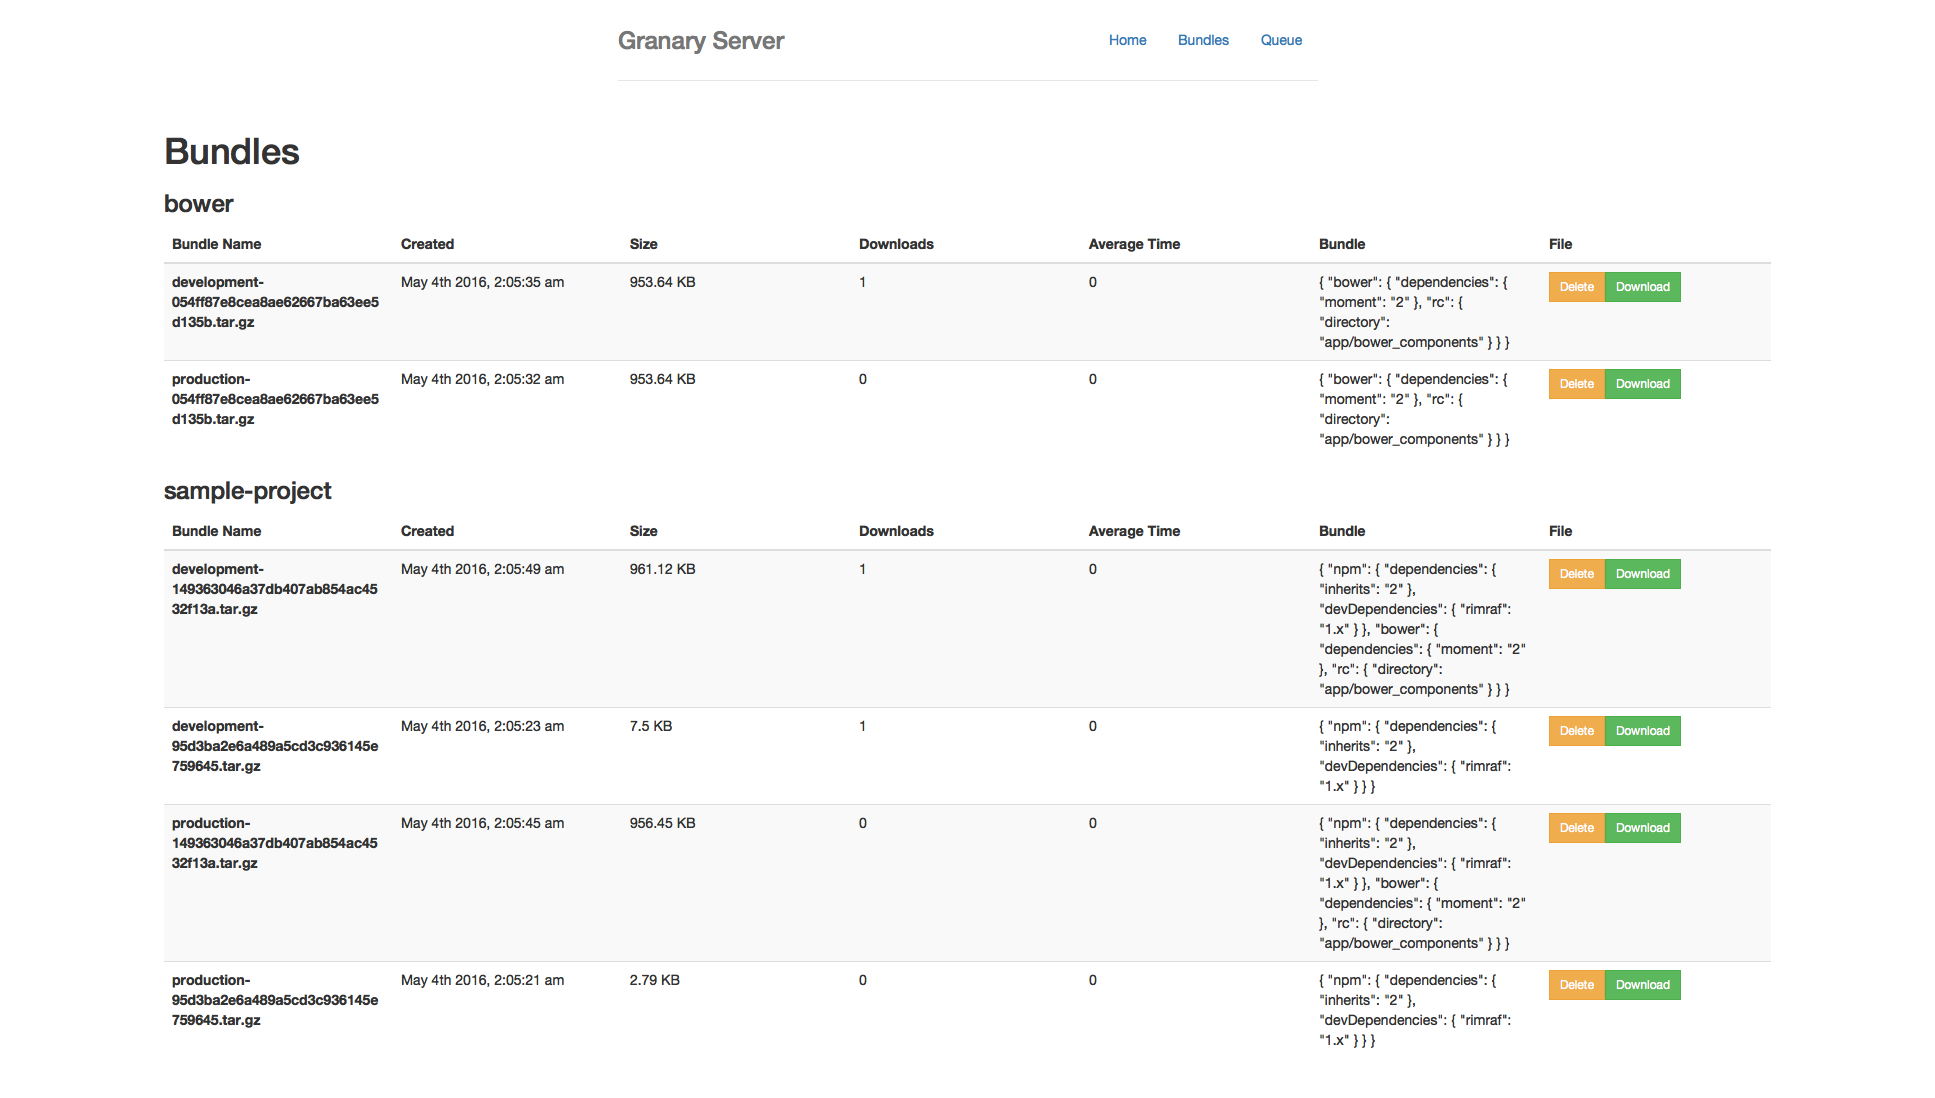
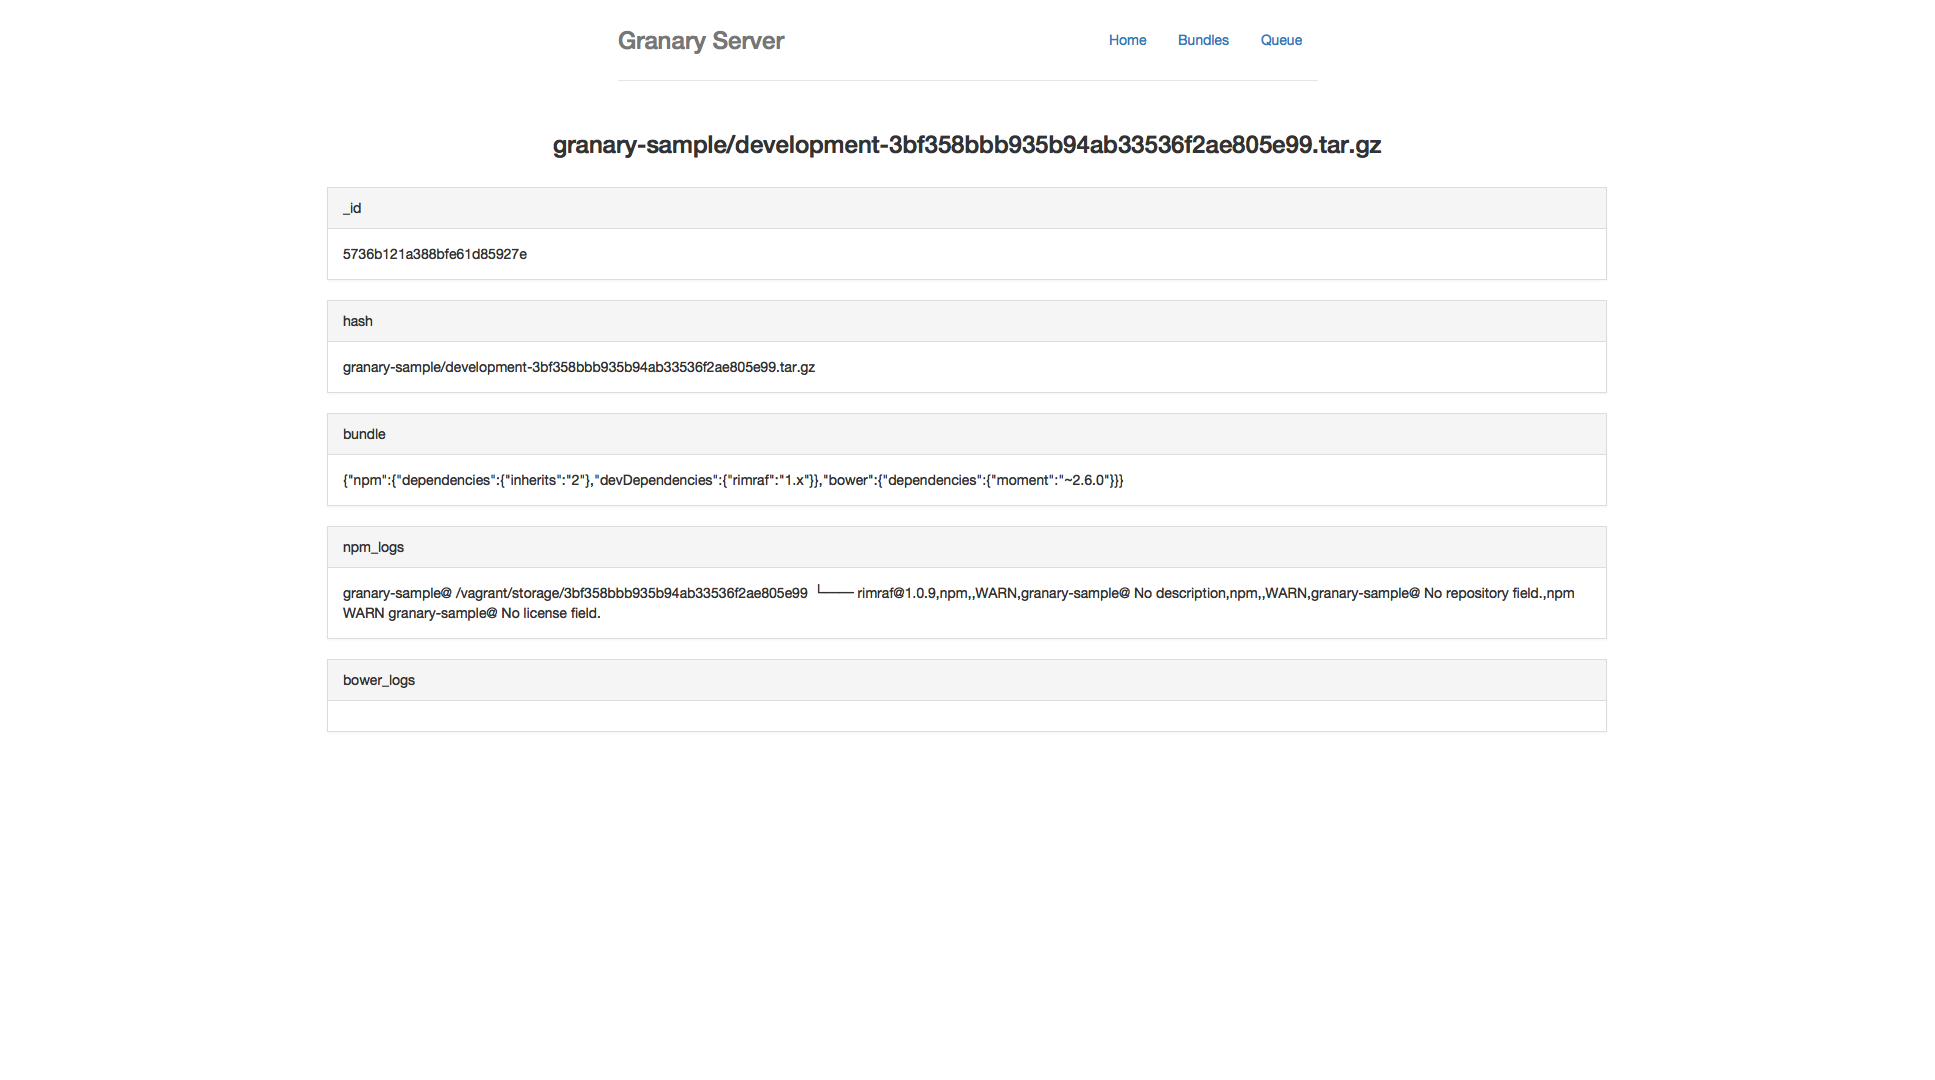
adds npm and bower logs adds more screenshot adds bundle page to show bundle info

diff --git a/lib/project.js b/lib/project.js
@@ -4,20 +4,24 @@ var fs = require('fs');
 var mkdirp = require('mkdirp');
 var Promise = require('bluebird');
 var mongoose = require('mongoose');
+var conf = require('../config/config')();
 
 var ProjectSchema = mongoose.Schema({
     hash: String,
     download_count: Number,
     download_time: Number,
     time: Date,
-    bundle: Object
+    bundle: Object,
+    bower_logs: Array,
+    npm_logs: Array
 });
 
 var Project = mongoose.model('Project', ProjectSchema);
 
 mongoose.connect('mongodb://localhost/granary-server');
 
-module.exports = function(log, conf) {
+module.exports = function(log) {
+    var self = {};
     return self = {
         get: function(hash) {
             return new Promise(function(resolve, reject) {
@@ -30,9 +34,9 @@ module.exports = function(log, conf) {
                     if (project) {
                         resolve(project);
                     } else {
-                        var project = new Project({
+                        project = new Project({
                             hash: hash
-                        }).save(function(err) {
+                        }).save(function() {
                             resolve(project);
                         });
                     }
@@ -67,10 +71,11 @@ module.exports = function(log, conf) {
             project.storageDir = conf.get('storage');
             // path where tar.gz will be saved
             project.path = path.join(project.storageDir, project.name);
-            project.developmentBundle = 'development-' + project.hash + '.tar.gz';
-            project.productionBundle = 'production-' + project.hash + '.tar.gz'
 
-            self.get(path.join(project.name, project.developmentBundle)).then(function(_project) {
+            project.developmentBundle = path.join(project.name, 'development-' + project.hash + '.tar.gz');
+            project.productionBundle = path.join(project.name, 'production-' + project.hash + '.tar.gz');
+
+            self.get(project.developmentBundle).then(function(_project) {
                 _project.bundle = JSON.stringify({
                     npm: project.npm || {},
                     bower: project.bower || {}
@@ -78,7 +83,7 @@ module.exports = function(log, conf) {
                 _project.save();
             });
 
-            self.get(path.join(project.name, project.productionBundle)).then(function(_project) {
+            self.get(project.productionBundle).then(function(_project) {
                 _project.bundle = JSON.stringify({
                     npm: project.npm || {},
                     bower: project.bower || {}
@@ -86,15 +91,15 @@ module.exports = function(log, conf) {
                 _project.save();
             });
 
-            project.bundlePath = path.join(project.path, project.developmentBundle);
-            project.productionBundlePath = path.join(project.path, project.productionBundle);
+            project.bundlePath = path.join(project.path, 'development-' + project.hash + '.tar.gz');
+            project.productionBundlePath = path.join(project.path, 'production-' + project.hash + '.tar.gz');
             project.downloadPath = path.join(project.name, 'development-' + project.hash + '.tar.gz');
             // temp storage directory where things install to
             project.tempPath = path.join(project.storageDir, project.hash);
             return project;
         },
-        getStats: function(hash, callback) {
-            return new Promise(function(resolve, reject) {
+        getStats: function(hash) {
+            return new Promise(function(resolve) {
                 self.get(hash).then(function(project) {
                     resolve({
                         downloads: project.download_count || 0,
@@ -138,7 +143,7 @@ module.exports = function(log, conf) {
                     var hash = path.join(name, bundle);
                     self.get(hash).then(function(project) {
                         project.download_count = project.download_count ? project.download_count += 1 : 1;
-                        project.save(function(err) {
+                        project.save(function() {
                             return res.sendFile(file);
                         });
                     });

diff --git a/routes/index.js b/routes/index.js
@@ -1,13 +1,15 @@
 var marked = require('marked');
 var kue = require('kue');
+var path = require('path');
+var fs = require('fs');
 var responseTime = require('response-time');
 var bodyParser = require('body-parser');
 
 module.exports = function(app, log, conf) {
     var Auth = require('../lib/auth')(log, conf);
-    var Project = require('../controllers/project')(log, conf);
-    var Granary = require('../controllers/granary')(log, conf);
-    var UI = require('../controllers/ui')(log, conf);
+    var Project = require('../lib/project')(log, conf);
+    var Granary = require('../lib/granary')(log, conf);
+    var UI = require('../lib/ui')(log, conf);
 
     app.use(bodyParser.json({
         limit: conf.get('limit') + 'kb'
@@ -30,9 +32,7 @@ module.exports = function(app, log, conf) {
                 file = req.originalUrl.replace('/ui/download/', '');
                 Project.get(file).then(function(project) {
                     project.download_time = project.download_time ? project.download_time + time : time;
-                    project.save(function(err) {
-                        console.log(err);
-                    });
+                    project.save();
                 });
             } else if(req.route.path == '/granary/download') {
                 var project = Project.getDetails(req.body);
@@ -43,9 +43,7 @@ module.exports = function(app, log, conf) {
                 file = file.substring(file.indexOf(project.name), file.length);
                 Project.get(file).then(function(project) {
                     project.download_time = project.download_time ? project.download_time + time : time;
-                    project.save(function(err) {
-                        console.log(err);
-                    });
+                    project.save();
                 });
             }
         }
@@ -62,8 +60,25 @@ module.exports = function(app, log, conf) {
         res.render('bundles', req.data);
     });
 
+    app.get('/ui/:folder/:file', function(req, res) {
+        var folder = req.params.folder;
+        var file = req.params.file;
+        fs.exists(path.join(conf.get('storage'), folder, file), function(exists) {
+            if(exists) {
+                Project.get(path.join(folder, file)).then(function(bundle) {
+                    res.render('bundle', {bundle: bundle.toObject()});
+                });
+            } else {
+                res.render('error', {
+                  message: 'Bundle does not exist',
+                  error: {
+                      status: 404
+                  }
+                });
+            }
+        });
+    });
     app.get('/ui/download/:folder/:file', Auth.middleware, UI.download);
-    // TODO: temporary, quick way to add delete
     app.get('/ui/delete/:folder/:file', Auth.logout, Auth.middleware, UI.delete);
 
     app.use('/granaries', kue.app);

diff --git a/lib/job_processor.js b/lib/job_processor.js
@@ -14,6 +14,8 @@ module.exports = function (log) {
 
   JobProcessor.setup = function (jobs) {
 
+      var Project = require('./project')(log);
+
     // TODO: one job at a time, npm can explode? (might need to investigate sandboxing job processing)
     // TODO: can Bower and NPM install the same time? (could be done if the process was threaded, might have an issue with concurrency)
     jobs.process('install', 1, function (job, done) {
@@ -27,7 +29,9 @@ module.exports = function (log) {
           job.progress(1, steps);
           if (project.npm) {
             job.log('Running NPM Install Production');
-            return npm.install(project, { production: true });
+            return Project.get(project.productionBundle).then(function(db) {
+                return npm.install(db, project, { production: true });
+            });
           } else {
             return Promise.resolve();
           }
@@ -36,7 +40,9 @@ module.exports = function (log) {
           job.progress(2, steps);
           if (project.bower) {
             job.log('Running Bower Install Production');
-            return bower.install(project, { production: true })
+            return Project.get(project.productionBundle).then(function(db) {
+                return bower.install(db, project, { production: true });
+            });
           } else {
             return Promise.resolve();
           }
@@ -50,7 +56,9 @@ module.exports = function (log) {
           job.progress(4, steps);
           log.debug('Building NPM Development Bundle');
           if (project.npm) {
-            return npm.install(project);
+              return Project.get(project.developmentBundle).then(function(db) {
+                  return npm.install(db, project);
+              });
           } else {
             return Promise.resolve();
           }
@@ -59,7 +67,9 @@ module.exports = function (log) {
           job.progress(5, steps);
           if (project.bower) {
             log.debug('Building Bower Development Bundle');
-            return bower.install(project);
+            return Project.get(project.developmentBundle).then(function(db) {
+                return bower.install(db, project);
+            });
           } else {
             return Promise.resolve();
           }

diff --git a/lib/installers/npm.js b/lib/installers/npm.js
@@ -5,14 +5,14 @@ var Promise = require('bluebird');
 
 module.exports = function(log) {
 
-    var install = function(project, options) {
+    var install = function(db, project, options) {
         options = options || {};
         return new Promise(function(resolve, reject) {
+            db.npm_logs = [];
 
             log.info('NPM Installing:', project.name);
 
             var cli = null;
-            var cliLog = {};
             var cmd = path.resolve(require.resolve('npm'), '..', '..', 'bin', 'npm-cli.js');
             var args = ['install', '--ignore-scripts'];
 
@@ -38,18 +38,19 @@ module.exports = function(log) {
                 });
                 cli.stdout.on('data', function(data) {
                     if (data && data.length > 0) {
-                        cliLog.info += data.toString().trim();
+                        db.npm_logs.push(data.toString().trim())
                     }
                 });
 
                 cli.stderr.on('data', function(data) {
                     if (data && data.length > 0) {
-                        cliLog.error += data.toString().trim();
+                        db.npm_logs.push(data.toString().trim())
                     }
                 });
 
                 cli.on('close', function(code) {
                     cli.kill('SIGINT');
+                    db.save();
                     var end = Date.now();
                     log.info('NPM Install Completed: ', project.name, ' completed in ', (end - start) / 1000, 'seconds.', 'Code:', code);
                     if (code === 0) {
@@ -60,10 +61,9 @@ module.exports = function(log) {
                         });
                     } else {
                         fs.unlink(path.join(project.tempPath, 'npm-debug.log'), function() {
-                            return reject(cliLog.error);
+                            return reject(db.npm_logs);
                         });
                     }
-
                 });
             } catch (e) {
                 log.error('NPM Exception', e, 'with command', cmd);

diff --git a/lib/installers/bower.js b/lib/installers/bower.js
@@ -5,11 +5,10 @@ var Promise = require('bluebird');
 
 module.exports = function(log) {
 
-    var install = function(project, options) {
+    var install = function(db, project, options) {
         options = options || {};
         return new Promise(function(resolve, reject) {
-
-            var errorLog = '';
+            db.bower_logs = [];
 
             log.info('Bower Installing:', project.name);
 
@@ -29,26 +28,26 @@ module.exports = function(log) {
             if (options.production) {
                 args.push('--production');
             }
-            
+
             var cli = spawn(cmd, args, {
                 cwd: project.tempPath
             });
 
             cli.stdout.on('data', function(data) {
                 if (data && data.length > 0) {
-                    log.debug(data.toString().trim());
+                    db.bower_logs.push(data.toString().trim());
                 }
             });
 
             cli.stderr.on('data', function(data) {
                 if (data && data.length > 0) {
-                    errorLog += data.toString().trim();
-                    log.debug(data.toString().trim());
+                    db.bower_logs.push(data.toString().trim());
                 }
             });
 
             cli.on('close', function(code) {
                 cli.kill('SIGINT');
+                db.save();
                 if (code === 0) {
                     log.info('Bower Install complete:', project.name);
                     fs.unlink(project.tempPath + '/bower.json', function() {
@@ -57,7 +56,7 @@ module.exports = function(log) {
                         });
                     });
                 } else {
-                    return reject(errorLog);
+                    return reject(db.bower_logs);
                 }
 
             });

diff --git a/Gruntfile.js b/Gruntfile.js
@@ -13,14 +13,24 @@ module.exports = function(grunt) {
                         type: 'remote',
                         src: 'http://localhost:8872',
                         dest: 'main.png',
-                        delay: 2000
+                        delay: 500
                     }, {
                         type: 'remote',
                         src: 'http://localhost:8872/bundles',
+                        dest: 'bundles.png',
+                        delay: 500
+                    },{
+                        type: 'remote',
+                        src: 'http://localhost:8872/ui/granary-sample/development-3bf358bbb935b94ab33536f2ae805e99.tar.gz',
                         dest: 'bundle.png',
-                        delay: 2000
+                        delay: 500
+                    },{
+                        type: 'remote',
+                        src: 'http://localhost:8872/ui/nope/nope',
+                        dest: 'bundle-error.png',
+                        delay: 500
                     }],
-                    viewport: ['1920x1080']
+                    viewport: ['1920x1080','1024x768','640x960', '320x480']
                 }
             }
         },
@@ -40,4 +50,5 @@ module.exports = function(grunt) {
         }
     });
     grunt.registerTask('build', ['screenshot', 'pug']);
+    grunt.registerTask('default', ['build']);
 }

diff --git a/lib/ui.js b/lib/ui.js
@@ -2,9 +2,10 @@ var fs = require('fs');
 var path = require('path');
 var filesize = require('filesize');
 var moment = require('moment');
+var conf = require('../config/config')();
 
-module.exports = function(log, conf) {
-    var Project = require('./project')(log, conf);
+module.exports = function(log) {
+    var Project = require('./project')(log);
     return {
         usage: function(req, res, next) {
 
@@ -30,8 +31,6 @@ module.exports = function(log, conf) {
                     data.count.projects = folders.length;
 
                     var done = function() {
-                        console.log(counter);
-                        console.log(folders.length);
                         if (counter == folders.length) {
                             req.data = data;
                             next();

diff --git a/lib/granary.js b/lib/granary.js
@@ -2,9 +2,10 @@ var fs = require('fs');
 var kue = require('kue');
 var Job = require('kue/lib/queue/job');
 var reds = require('reds');
+var conf = require('../config/config')();
 
-module.exports = function(log, conf) {
-    var Project = require('./project')(log, conf);
+module.exports = function(log) {
+    var Project = require('./project')(log);
     var processor = require('../lib/job_processor')(log);
     log.debug('Redis Configuration', conf.get('redis'));
     // TODO: refactor this out into setup file
